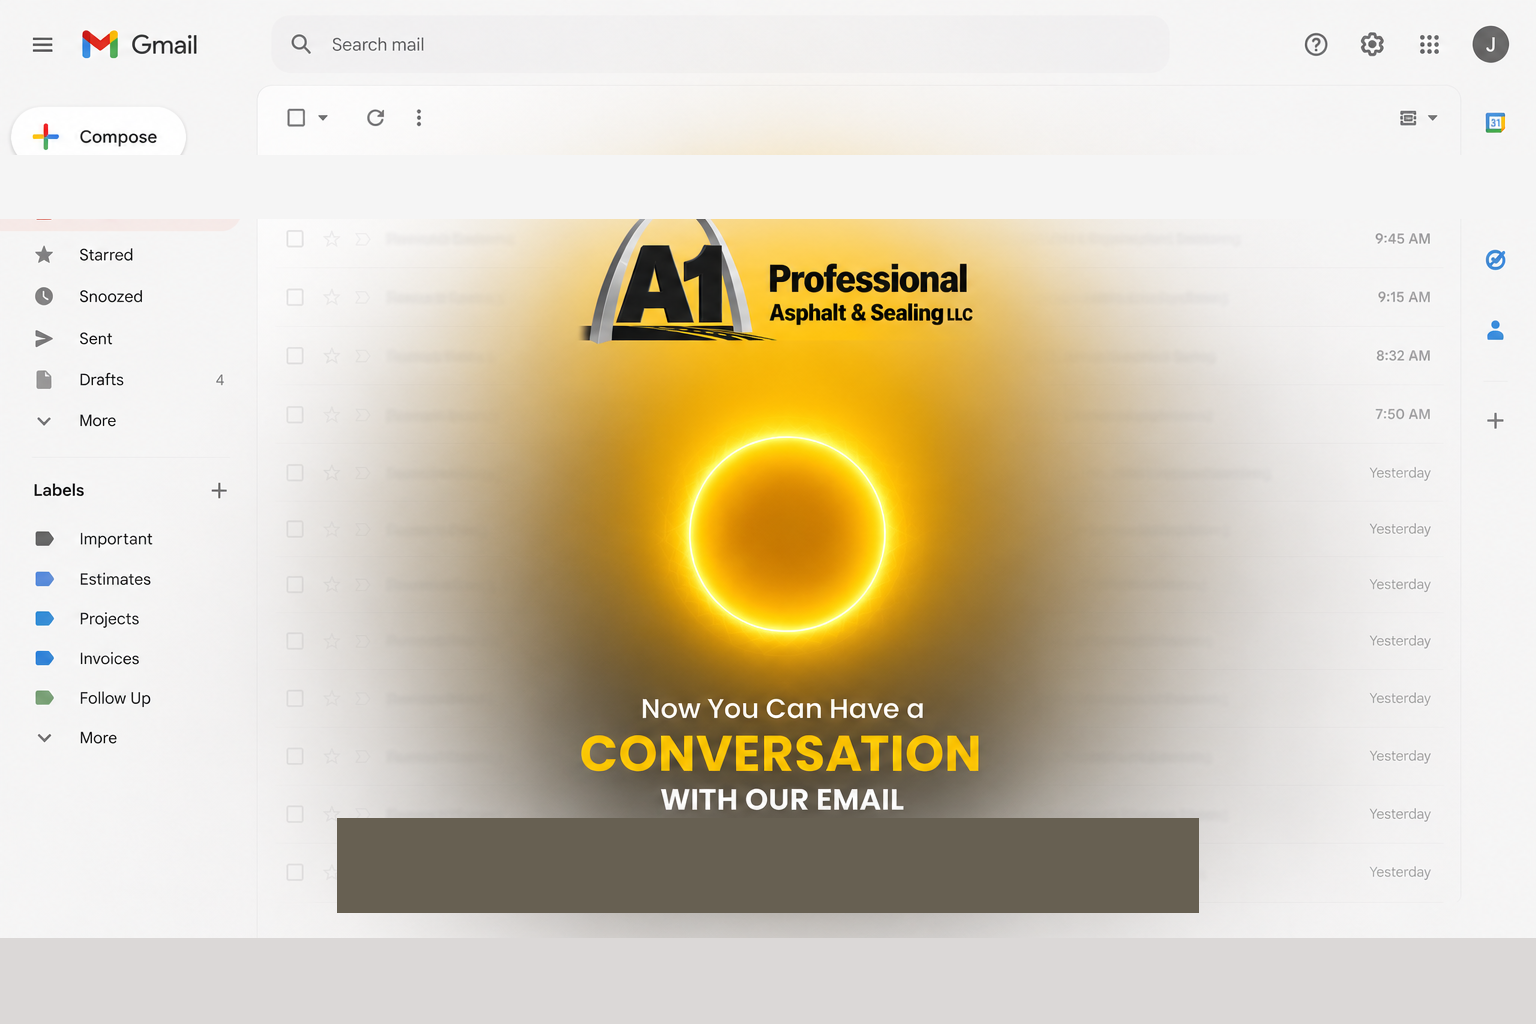
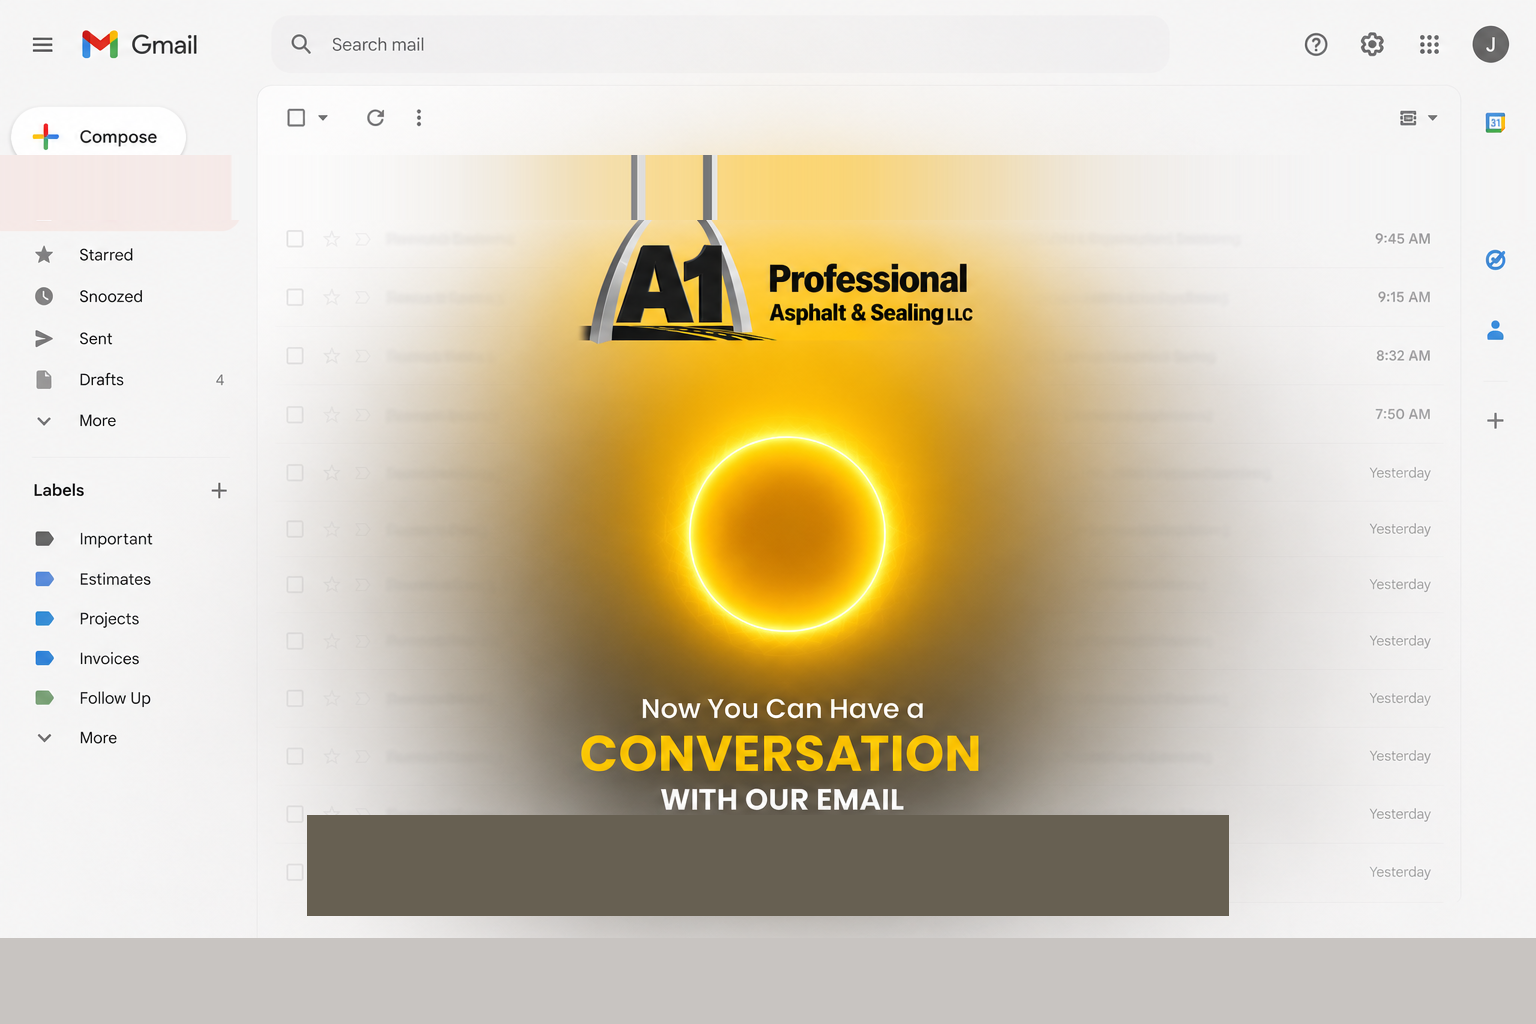
Measured fix: center top, orb 0.24 on dark 0.51, clamp buttons above dock, blend tab mask

Changed region(s): [[0.3125, 0.125, 0.7188, 0.2188], [0.75, 0.7812, 0.8125, 0.9062], [0.1875, 0.7812, 0.25, 0.9062]]

diff --git a/backups/talk-working.html b/backups/talk-working.html
@@ -10,7 +10,7 @@ html,body{width:100%;height:100%;overflow:hidden;background:#fff;
   -webkit-tap-highlight-color:transparent;user-select:none;}
 /* Background: tabs/footer masked in talk-bg-clean.png — full artwork kept. */
 #bgWrap{position:fixed;inset:0;overflow:hidden;background:#1a1a1a;}
-#bg{position:absolute;inset:0;width:100%;height:100%;object-fit:cover;object-position:center center;display:block;}
+#bg{position:absolute;inset:0;width:100%;height:100%;object-fit:cover;object-position:center top;display:block;}
 /* Footer: measured replacement for baked-in "Click anywhere to stop" text. */
 #dock{
   position:fixed;left:0;right:0;bottom:0;z-index:5;
@@ -141,9 +141,10 @@ const source=(params.get('src')||'email').toLowerCase();
 const sessionSource=(source==='a1tony'||source==='a1outreach')?source:'email';
 const isOutreach=sessionSource==='a1tony'||sessionSource==='a1outreach';
 const IMG_W=1536,IMG_H=1024;          // full artwork — tabs/footer masked in image file only
-const ORB_CX=0.5130,ORB_CY=0.4268;   // bright inner ring center (px 788, 437)
-const ORB_D=0.086;                   // inner bright ring only — big glow stays in artwork
-const ACTION_CY=0.866;               // buttons sit below "WITH OUR EMAIL"
+const ORB_CX=0.5130,ORB_CY=0.4268;   // bright ring center — measured px 788, 437
+const ORB_D=0.24;                    // bright ring diam 0.24 — dark glow 0.51 in artwork
+const ACTION_CY=0.866;               // below WITH OUR EMAIL (px 887 / 1024)
+const DOCK_CLEAR=72;                 // px above footer dock — measured
 const orb=document.getElementById('orb');
 const actionBar=document.getElementById('actionBar');
 const humanLink=document.getElementById('humanLink');
@@ -151,7 +152,7 @@ function coverMap(){
   const vw=window.innerWidth,vh=window.innerHeight;
   const scale=Math.max(vw/IMG_W,vh/IMG_H);
   const rw=IMG_W*scale,rh=IMG_H*scale;
-  const offX=(vw-rw)/2,offY=(vh-rh)/2; /* matches object-position: center center */
+  const offX=(vw-rw)/2,offY=0; /* object-position: center top */
   return {rw,rh,offX,offY};
 }
 function placeLayout(){
@@ -176,8 +177,10 @@ function placeLayout(){
   orb.style.height=d+'px';
   orb.style.left=left+'px';
   orb.style.top=top+'px';
+  const wantBarY=offY+ACTION_CY*rh;
+  const maxBarY=vh-DOCK_CLEAR;
   actionBar.style.left=(offX+ORB_CX*rw)+'px';
-  actionBar.style.top=(offY+ACTION_CY*rh)+'px';
+  actionBar.style.top=Math.min(wantBarY,maxBarY)+'px';
 }
 function placeOrb(){placeLayout();}
 placeOrb();

diff --git a/public/talk.html b/public/talk.html
@@ -10,7 +10,7 @@ html,body{width:100%;height:100%;overflow:hidden;background:#fff;
   -webkit-tap-highlight-color:transparent;user-select:none;}
 /* Background: tabs/footer masked in talk-bg-clean.png — full artwork kept. */
 #bgWrap{position:fixed;inset:0;overflow:hidden;background:#1a1a1a;}
-#bg{position:absolute;inset:0;width:100%;height:100%;object-fit:cover;object-position:center center;display:block;}
+#bg{position:absolute;inset:0;width:100%;height:100%;object-fit:cover;object-position:center top;display:block;}
 /* Footer: measured replacement for baked-in "Click anywhere to stop" text. */
 #dock{
   position:fixed;left:0;right:0;bottom:0;z-index:5;
@@ -141,9 +141,10 @@ const source=(params.get('src')||'email').toLowerCase();
 const sessionSource=(source==='a1tony'||source==='a1outreach')?source:'email';
 const isOutreach=sessionSource==='a1tony'||sessionSource==='a1outreach';
 const IMG_W=1536,IMG_H=1024;          // full artwork — tabs/footer masked in image file only
-const ORB_CX=0.5130,ORB_CY=0.4268;   // bright inner ring center (px 788, 437)
-const ORB_D=0.086;                   // inner bright ring only — big glow stays in artwork
-const ACTION_CY=0.866;               // buttons sit below "WITH OUR EMAIL"
+const ORB_CX=0.5130,ORB_CY=0.4268;   // bright ring center — measured px 788, 437
+const ORB_D=0.24;                    // bright ring diam 0.24 — dark glow 0.51 in artwork
+const ACTION_CY=0.866;               // below WITH OUR EMAIL (px 887 / 1024)
+const DOCK_CLEAR=72;                 // px above footer dock — measured
 const orb=document.getElementById('orb');
 const actionBar=document.getElementById('actionBar');
 const humanLink=document.getElementById('humanLink');
@@ -151,7 +152,7 @@ function coverMap(){
   const vw=window.innerWidth,vh=window.innerHeight;
   const scale=Math.max(vw/IMG_W,vh/IMG_H);
   const rw=IMG_W*scale,rh=IMG_H*scale;
-  const offX=(vw-rw)/2,offY=(vh-rh)/2; /* matches object-position: center center */
+  const offX=(vw-rw)/2,offY=0; /* object-position: center top */
   return {rw,rh,offX,offY};
 }
 function placeLayout(){
@@ -176,8 +177,10 @@ function placeLayout(){
   orb.style.height=d+'px';
   orb.style.left=left+'px';
   orb.style.top=top+'px';
+  const wantBarY=offY+ACTION_CY*rh;
+  const maxBarY=vh-DOCK_CLEAR;
   actionBar.style.left=(offX+ORB_CX*rw)+'px';
-  actionBar.style.top=(offY+ACTION_CY*rh)+'px';
+  actionBar.style.top=Math.min(wantBarY,maxBarY)+'px';
 }
 function placeOrb(){placeLayout();}
 placeOrb();
